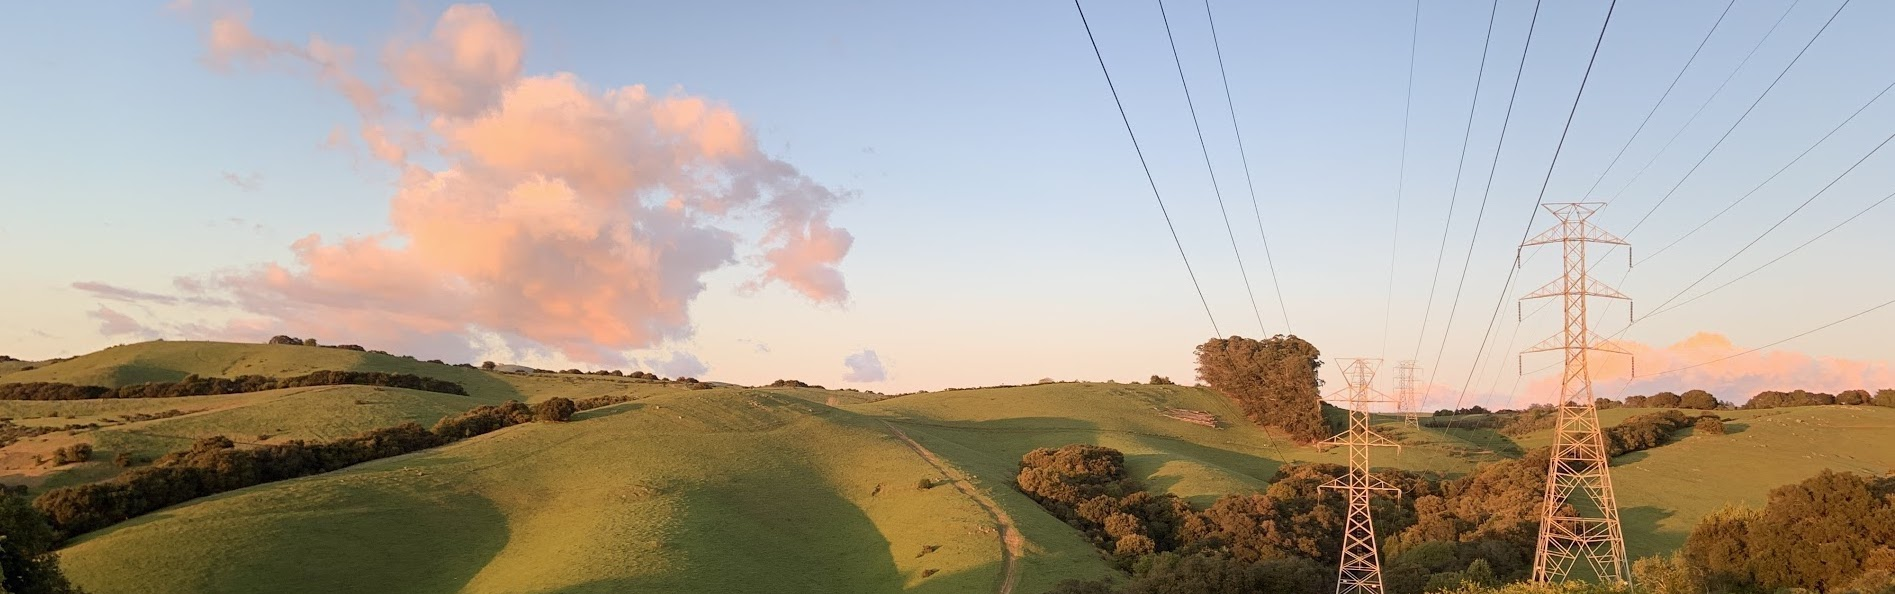
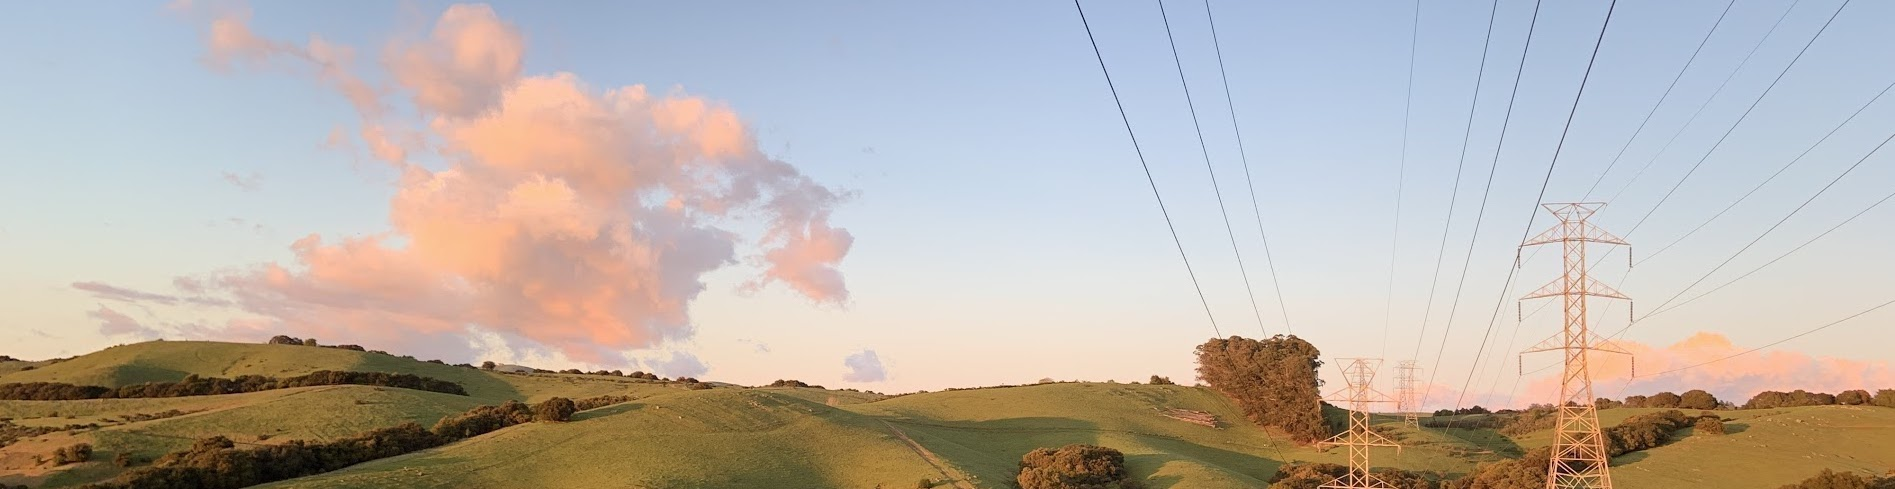
fixed backgrounds

diff --git a/main.css b/main.css
@@ -10,71 +10,122 @@ html {
 }
 
 body {
-
-  background-repeat: no-repeat;
-  background-size: cover; 
- 
-  background-origin: content-box;
+    height: 100%;
+    margin: 0;
+    padding: 0;
   
    
 }
     
-
-h1  {
-    color: white;
-    font-family: 'Satisfy', cursive;
-    font-size: 50px;
-    letter-spacing: 1px;
-    padding-left: 30px;
-}
-
-mark.categories{
-    color: white;
-    font-family: 'Fjalla One', sans-serif;
-    font-size: 20px;
-    letter-spacing: 1px;
-    padding-left: 760px;
-    word-spacing: 100px;
-    background-color: transparent; 
-}
-
-
-a.bookmarks:active {color: darkcyan; }
-a.bookmarks:link {color: darkcyan; text-decoration: none; }
-a.bookmarks:visited {color: darkcyan; text-decoration: none; }
-a.bookmarks:hover {color: darkcyan; text-decoration: none; }
-
-a.writing:active {color: darkblue; }
-a.writing:link {color: white; text-decoration: none; }
-a.writing:visited {color: white; text-decoration: none; }
-a.writing:hover {color: darkblue; text-decoration: none; }
-
-
-
-h2 {
-    color: white;
-    font-family: 'Fjalla One', sans-serif;
-    font-size: 80px;
-    letter-spacing: 1px;
+.mainpages {
+    position: relative;
     text-align: center;
-    padding-top: 40px;
+    color: white;  
+}
+
+.bookmarkicon {
+  position: absolute;
+  top: 16px;
+  left: 30px;
+  font-family: 'Satisfy', cursive;
+  font-size: 50px;
+}
+
+.writing {
+  position: absolute;
+  top: 40px;
+  left: 1080px;
+  font-family: 'Fjalla One', sans-serif;
+  font-size: 17px;
+}
+
+.origami {
+  position: absolute;
+  top: 40px;
+  left: 1190px;
+  font-family: 'Fjalla One', sans-serif;
+  font-size: 17px;
+}
+
+.about {
+  position: absolute;
+  top: 40px;
+  left: 1300px;
+  font-family: 'Fjalla One', sans-serif;
+  font-size: 17px;
+}
+
+a.bookmarks:active {color: white; }
+a.bookmarks:link {color: white; text-decoration: none; }
+a.bookmarks:visited {color: white; text-decoration: none; }
+a.bookmarks:hover {color: white; text-decoration: none; }
+
+a.links:active {color: darkblue; }
+a.links:link {color: white; text-decoration: none; }
+a.links:visited {color: white; text-decoration: none; }
+a.links:hover {color: darkblue; text-decoration: none; }
+    
+}
+
+
+.expl{
+    position: absolute;
+    top: 100px;
+    left: 600px;
+    font-family: 'Fjalla One', sans-serif;
+    font-size: 40px;
+    color: black;
+    background-color: transparent;
+}
+
+.topic-read{
+  position: absolute;
+  top: 183px;
+  left: 500px;
+  font-family: 'Fjalla One', sans-serif;
+  font-size: 80px;
+color: white;
+background-color: transparent; 
+}
+    
+.topic-ori{
+  position: absolute;
+  font-family: 'Fjalla One', sans-serif;
+  font-size: 80px;
+ top: 145px;
+  left: -700px;
+color: white;
+background-color: transparent;    
+}
+
+.topic-abt{
+  position: absolute;
+  font-family: 'Fjalla One', sans-serif;
+font-size: 80px;
+ top: 145px;
+  left: -860px;
+color: white;
+background-color: transparent;    
 }
 
 
 
-img {
+
+
+/*img {
     padding-top: 50px;
     padding-left: 90px;
 }
+*/
 
 p {
-    color: black;
+    color: slategrey;
     font-weight:normal;
     font: 15px Nuninto, sans-serif;
     line-height: 2;
     letter-spacing: 1px;
-    padding-left: 400px;
-    padding-right: 150px;
+    background-color: gainsboro;
+
        
 }
 

diff --git a/about.html b/about.html
@@ -5,12 +5,8 @@
 
 <link href="https://fonts.googleapis.com/css2?family=Fjalla+One&family=Satisfy&display=swap" rel="stylesheet">
     
-    
-<style>
-body {
-    background-image: url("images/nature.JPG");
-    }
- </style>    
+
+  
     
 
 <title> About </title>
@@ -20,22 +16,24 @@ body {
     
 <body>
 
-<h1> <a href = "index.html" class="bookmarks"> Bookmarks</a>  
-    
-    <mark class="categories"> 
-     <a href = "writing.html" class="writing"> Reads</a>   
-        <a href = "origami.html" class="writing"> Folds</a> 
-        <a href = "about.html" class="writing"> About</a>
-
-    </mark>
-</h1>    
-    
-    
-
-<h2>About </h2>
+<div class ="mainpages">
+   
+<img src="images/nature.JPG" alt="books" style="width:100%">
+  <div class="bookmarkicon"><a href = "index.html" class="bookmarks"> Paper Cuts</a></div>
+  <div class="writing"> <a href = "writing.html" class="links"> Reads</a>  </div>
+  <div class="origami"> <a href = "origami.html" class="links"> Folds</a>  </div>
+  <div class="about">  <a href="about.html" class="links"> About</a> 
+   <div class="topic-abt"> The Writer/Folder </div> 
+    </div>
     
 
-    <p style="text-align:center;"> Welcome to my website, Bookmarks. I'm <mark class="kiki2">Kiki</mark>-- a mechanical engineering student at Cornell University. I created Bookmarks as a place for me to take a break from the everyday hustle and bustle and appreciate some of paper's hidden gifts. Feel free to look around if you want some book recs or origami inspiration-- thank you paper! You can also view some of my academic work <a href = "http://www.google.com/" class="writing" > here</a>. </p>
+
+    
+
+ <div>
+        <p> Welcome to my website. I'm <mark class="kiki2">Kiki</mark>-- a mechanical engineering student at Cornell University. I created Paper Tales as a place for me to appreciate the qualities of paper that are often taken for granted. Feel free to look around if you want some book recs or origami inspiration-- thank you paper! You can also view some of my academic work <a href = "http://www.google.com/" class="links" > here</a>. </p>
+
+    </div>   
 
 
 

diff --git a/writing.html b/writing.html
@@ -6,11 +6,6 @@
 <link href="https://fonts.googleapis.com/css2?family=Fjalla+One&family=Satisfy&display=swap" rel="stylesheet">
     
     
-<style>
-body {
-    background-image: url("images/books.jpg");
-    }
- </style>
 
 <title>Reads </title>
     
@@ -19,24 +14,29 @@ body {
     
 <body>
 
-<h1> <a href = "index.html" class="bookmarks"> Bookmarks</a>  
+<div class ="mainpages">
+   
+<img src="images/books.jpg" alt="books" style="width:100%;">
+  <div class="bookmarkicon"><a href = "index.html" class="bookmarks"> Paper Cuts </a></div>
+  <div class="writing"> <a href = "writing.html" class="links"> Reads</a>  </div>
+  <div class="origami"> <a href = "origami.html" class="links"> Folds</a>  </div>
+  <div class="about">  <a href="about.html" class="links"> About</a> </div>
+ <div class="topic-read"> Book Reviews </div>
     
-    <mark class="categories"> 
-        <a href = "writing.html" class="writing"> Reads</a>   
-        <a href = "origami.html" class="writing"> Folds</a> 
-        <a href="about.html" class="writing"> About</a>
+ </div> 
+    
+<div>
+    
 
-    </mark>
-</h1>  
     
-    <h2>Reads </h2>
+    </div>
     
     
     
   
  
 
-    <p style="text-align:center;"> I like to read. Here you can find reviews of some of the books I've read in the past.  </p>
+    
 
 
 

diff --git a/index.html b/index.html
@@ -11,31 +11,42 @@
 @import url('https://fonts.googleapis.com/css2?family=Fjalla+One&family=Satisfy&display=swap');
 </style>
     
-<style>
-body {
-    background-image: url("images/mainpic.jpg");
-    }
- </style>
 
-<title>Bookmarks Home </title>
+
+<title>Paper Cuts Home </title>
     
 </head>
     
 
     
 <body>
+ 
+<div class ="mainpages">
+   
+<img src="images/mainpic.jpg" alt="books" style="width:100%"> 
+  <div class="bookmarkicon"><a href = "index.html" class="bookmarks"> Paper Cuts </a></div>
+  <div class="writing"> <a href = "writing.html" class="links"> Reads</a>  </div>
+  <div class="origami"> <a href = "origami.html" class="links"> Folds</a>  </div>
+  <div class="about">  <a href="about.html" class="links"> About</a> </div>
+  <div class="expl"> Slicing into paper's hidden gems</div>
+    
+    </div>
+    
+ 
     
 
 
-<h1> <a href = "index.html" class="bookmarks"> Bookmarks</a>  
     
-    <mark class="categories"> 
-        <a href = "writing.html" class="writing"> Reads</a>   
-        <a href = "origami.html" class="writing"> Folds</a> 
-        <a href="about.html" class="writing"> About</a>
+    
 
-    </mark>
-</h1>  
+
+    
+
+
+    
+    
+    
+
     
     <br>
    <br>

diff --git a/origami.html b/origami.html
@@ -7,11 +7,7 @@
 @import url('https://fonts.googleapis.com/css2?family=Fjalla+One&family=Satisfy&display=swap');
 </style>
     
-<style>
-body {
-    background-image: url("images/origami.jpg");
-    }
- </style>
+
 
 <title>Folds </title>
     
@@ -20,23 +16,21 @@ body {
     
 <body>
 
-<h1> <a href = "index.html" class="bookmarks"> Bookmarks</a>  
-    
-    <mark class="categories"> 
-     <a href = "writing.html" class="writing"> Reads</a>   
-        <a href = "origami.html" class="writing"> Folds</a> 
-        <a href="about.html" class="writing"> About</a>
-
-    </mark>
-</h1>    
-    
+<div class ="mainpages">
+   
+<img src="images/origami.jpg" alt="books" style="width:100%;">
+  <div class="bookmarkicon"><a href = "index.html" class="bookmarks"> Paper Cuts</a></div>
+  <div class="writing"> <a href = "writing.html" class="links"> Reads</a>  </div>
+  <div class="origami"> <a href = "origami.html" class="links"> Folds</a>  </div>
+  <div class="about">  <a href="about.html" class="links"> About</a> 
+  <div class="topic-ori"> Origami </div>
+    </div>
     
     
   
 <h2>Folds</h2>
     
-
-    <p> I like to make origami. Scroll through to see some of the things I've made!  </p>
+ 
 
 
 
